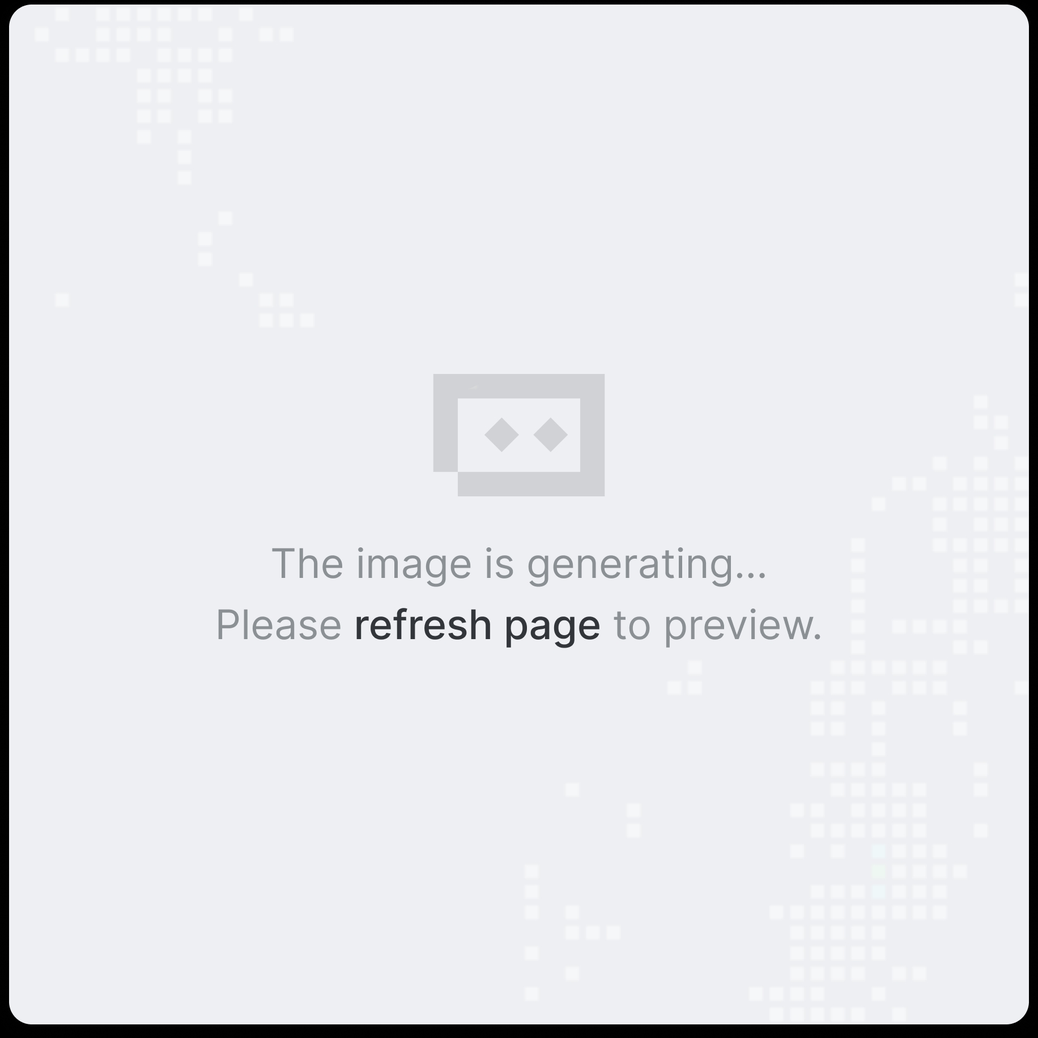
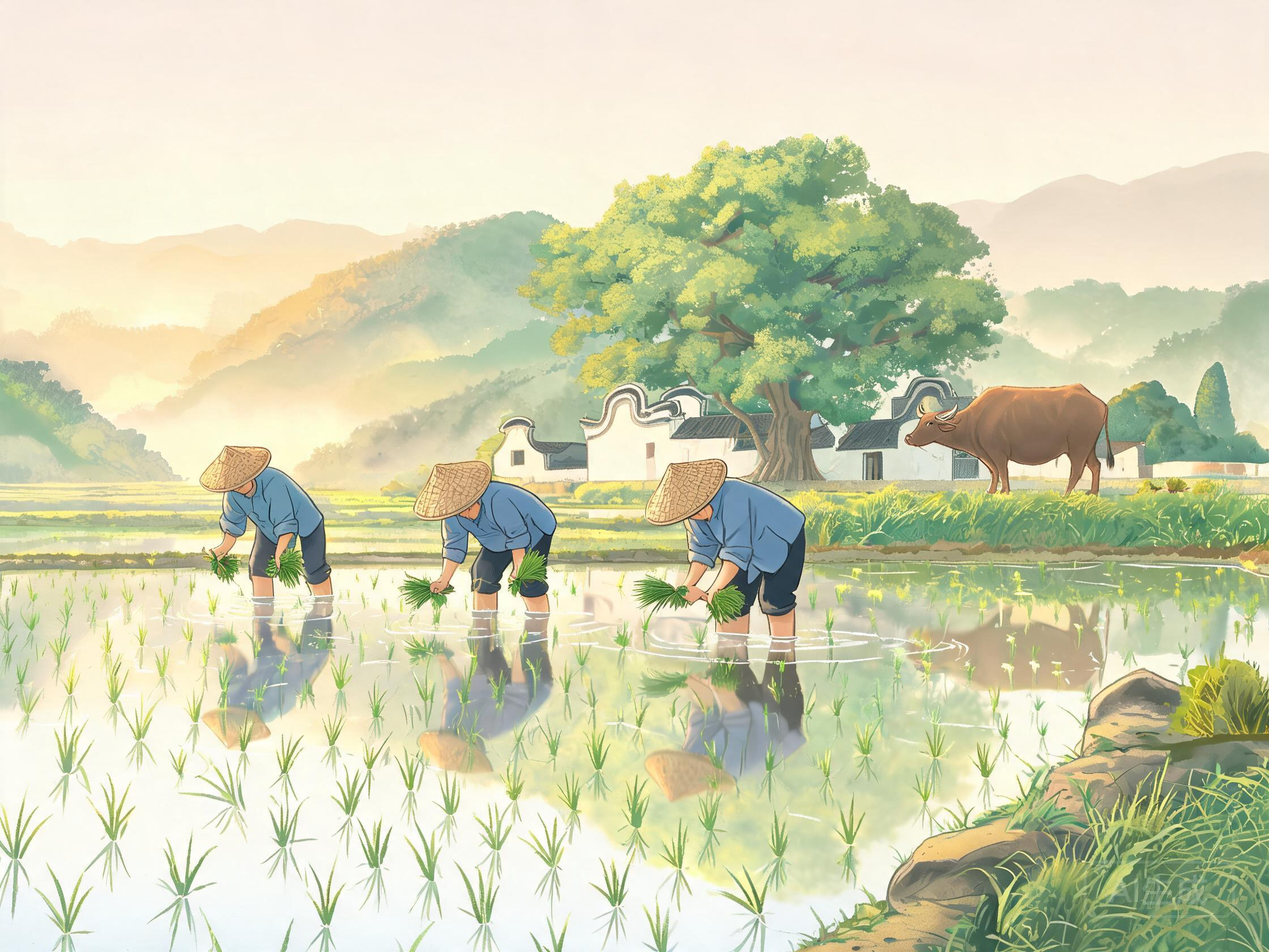
修复传统农作占位图（重新生成2240x1680插图）+文案二次去AI腔

diff --git a/gd-agri-science.html b/gd-agri-science.html
@@ -611,7 +611,7 @@
         <div class="sec-head reveal">
           <span class="kicker">01 / 岭南农珍</span>
           <h2>一张地图，看清广东"土特产"长在哪</h2>
-          <p class="lead">广东人讲"不时不食"：荔枝、菠萝、单丛茶、丝苗米，每样物产都有自己的地盘。点开地图上的九个圆点，看它们具体产自哪里，又靠什么技术走出了广东。</p>
+          <p class="lead">广东人讲"不时不食"：荔枝、菠萝、单丛茶、丝苗米，每样物产都有自己的地盘。点开地图上的九个圆点，看它们具体产自哪里，又靠什么本事卖到全国。</p>
         </div>
         <div class="map-grid reveal">
           <div class="map-panel">
@@ -724,7 +724,7 @@
           <div class="reveal">
             <h3 class="sub-h">装置二 · 天上的"飞把式"</h3>
             <p class="para">人工背药桶下田，一天顶多二三十亩，人还吸一肚子药雾。换无人机，一架一天能洒三四百亩；旋翼往下压风，药雾被吹进稻丛根部，连叶子背面都打得到。</p>
-            <p class="para">广州正是农业无人机的重镇——极飞科技总部在广州，大疆农业在珠三角扎了根。更彻底的是罗锡文院士团队在增城搞的水稻无人农场：旋耕、播种、收割，农机照着北斗路线自己走，一个人能管几百亩。</p>
+            <p class="para">广州还是农业无人机的大本营——极飞科技总部就在广州，大疆农业也在珠三角扎了根。更彻底的是罗锡文院士团队在增城搞的水稻无人农场：旋耕、播种、收割，农机照着北斗路线自己走，一个人能管几百亩。</p>
             <p class="para">点"开始作业"，可以拖滑块调速、开关航线。注意看：飞过的田垄会变颜色。</p>
           </div>
           <div class="drone-stage reveal">
@@ -830,7 +830,7 @@
               </div>
               <div class="tab-panel">
                 <h4>天敌昆虫：请"虫友"来帮忙</h4>
-                <p>赤眼蜂不到一毫米大，专把卵产进害虫的卵里；捕食螨见了红蜘蛛就开口。它们由工厂批量繁育，装在小卡片里往树上一挂，就能持续吃虫。</p>
+                <p>赤眼蜂不到一毫米大，专把卵产进害虫的卵里；捕食螨见了红蜘蛛就开口。它们在工厂里批量繁育，装成小卡片往树上一挂，益虫就在园子里安了家，天天帮着吃虫。</p>
                 <p class="principle">关键点：恢复食物链，让益虫自己把害虫数量压住。</p>
               </div>
               <div class="tab-panel">
@@ -920,7 +920,7 @@
             <div class="q-step">
               <div class="ico">04</div>
               <h4>贴码上市</h4>
-              <p>合格后赋追溯码，产地检测物流一查便知。</p>
+              <p>合格后贴上追溯码：产自哪个地块、检测结果、运去了哪儿，一扫全知道。</p>
             </div>
           </div>
           <div class="step-replay">
@@ -936,7 +936,7 @@
         <div class="sec-head reveal">
           <span class="kicker">06 / 数据看振兴</span>
           <h2>数字里的广东农业</h2>
-          <p class="lead">广东耕地不多，约占全国的 1.9%，却种出了全国数一数二的水果盘子，粮食产量还连年稳中有升。三张图看个大概。</p>
+          <p class="lead">广东耕地不多，约占全国的 1.9%，却种出了全国数一数二的水果盘子，粮食产量也一年比一年稳。三张图看个大概。</p>
         </div>
         <div class="chart-grid">
           <figure class="chart-card reveal">
@@ -962,7 +962,7 @@
         <div class="sec-head reveal" style="text-align:center;">
           <span class="kicker" style="justify-content:center;">07 / 科普闯关</span>
           <h2>八道题，测测你的"粤农段位"</h2>
-          <p class="lead" style="margin:0.6rem auto 0;">单选，答完给评级，连对有显示。答案都在前面的内容里。</p>
+          <p class="lead" style="margin:0.6rem auto 0;">单选，答完给评级，连对还会弹提示。答案都藏在前面的内容里。</p>
         </div>
         <div class="quiz-box reveal" id="quizBox">
           <div id="quizPlay">

diff --git a/index.html b/index.html
@@ -611,7 +611,7 @@
         <div class="sec-head reveal">
           <span class="kicker">01 / 岭南农珍</span>
           <h2>一张地图，看清广东"土特产"长在哪</h2>
-          <p class="lead">广东人讲"不时不食"：荔枝、菠萝、单丛茶、丝苗米，每样物产都有自己的地盘。点开地图上的九个圆点，看它们具体产自哪里，又靠什么技术走出了广东。</p>
+          <p class="lead">广东人讲"不时不食"：荔枝、菠萝、单丛茶、丝苗米，每样物产都有自己的地盘。点开地图上的九个圆点，看它们具体产自哪里，又靠什么本事卖到全国。</p>
         </div>
         <div class="map-grid reveal">
           <div class="map-panel">
@@ -724,7 +724,7 @@
           <div class="reveal">
             <h3 class="sub-h">装置二 · 天上的"飞把式"</h3>
             <p class="para">人工背药桶下田，一天顶多二三十亩，人还吸一肚子药雾。换无人机，一架一天能洒三四百亩；旋翼往下压风，药雾被吹进稻丛根部，连叶子背面都打得到。</p>
-            <p class="para">广州正是农业无人机的重镇——极飞科技总部在广州，大疆农业在珠三角扎了根。更彻底的是罗锡文院士团队在增城搞的水稻无人农场：旋耕、播种、收割，农机照着北斗路线自己走，一个人能管几百亩。</p>
+            <p class="para">广州还是农业无人机的大本营——极飞科技总部就在广州，大疆农业也在珠三角扎了根。更彻底的是罗锡文院士团队在增城搞的水稻无人农场：旋耕、播种、收割，农机照着北斗路线自己走，一个人能管几百亩。</p>
             <p class="para">点"开始作业"，可以拖滑块调速、开关航线。注意看：飞过的田垄会变颜色。</p>
           </div>
           <div class="drone-stage reveal">
@@ -830,7 +830,7 @@
               </div>
               <div class="tab-panel">
                 <h4>天敌昆虫：请"虫友"来帮忙</h4>
-                <p>赤眼蜂不到一毫米大，专把卵产进害虫的卵里；捕食螨见了红蜘蛛就开口。它们由工厂批量繁育，装在小卡片里往树上一挂，就能持续吃虫。</p>
+                <p>赤眼蜂不到一毫米大，专把卵产进害虫的卵里；捕食螨见了红蜘蛛就开口。它们在工厂里批量繁育，装成小卡片往树上一挂，益虫就在园子里安了家，天天帮着吃虫。</p>
                 <p class="principle">关键点：恢复食物链，让益虫自己把害虫数量压住。</p>
               </div>
               <div class="tab-panel">
@@ -920,7 +920,7 @@
             <div class="q-step">
               <div class="ico">04</div>
               <h4>贴码上市</h4>
-              <p>合格后赋追溯码，产地检测物流一查便知。</p>
+              <p>合格后贴上追溯码：产自哪个地块、检测结果、运去了哪儿，一扫全知道。</p>
             </div>
           </div>
           <div class="step-replay">
@@ -936,7 +936,7 @@
         <div class="sec-head reveal">
           <span class="kicker">06 / 数据看振兴</span>
           <h2>数字里的广东农业</h2>
-          <p class="lead">广东耕地不多，约占全国的 1.9%，却种出了全国数一数二的水果盘子，粮食产量还连年稳中有升。三张图看个大概。</p>
+          <p class="lead">广东耕地不多，约占全国的 1.9%，却种出了全国数一数二的水果盘子，粮食产量也一年比一年稳。三张图看个大概。</p>
         </div>
         <div class="chart-grid">
           <figure class="chart-card reveal">
@@ -962,7 +962,7 @@
         <div class="sec-head reveal" style="text-align:center;">
           <span class="kicker" style="justify-content:center;">07 / 科普闯关</span>
           <h2>八道题，测测你的"粤农段位"</h2>
-          <p class="lead" style="margin:0.6rem auto 0;">单选，答完给评级，连对有显示。答案都在前面的内容里。</p>
+          <p class="lead" style="margin:0.6rem auto 0;">单选，答完给评级，连对还会弹提示。答案都藏在前面的内容里。</p>
         </div>
         <div class="quiz-box reveal" id="quizBox">
           <div id="quizPlay">

diff --git a/assets/main.js b/assets/main.js
@@ -289,7 +289,7 @@
       },
       yingde: {
         tag: '红茶名片', name: '英德 · 红茶', img: null,
-        desc: '英红九号是英德红茶的当家品种，茶汤红亮、茶味浓。从一片鲜叶到一罐茶，温度、时间都有标准，老茶区靠标准化重新打开了市场。',
+        desc: '英红九号是英德红茶的当家品种，茶汤红亮、茶味浓。从一片鲜叶到一罐茶，温度、时间都有规矩，靠着这套标准，老茶区又慢慢火了回来。',
         tech: '良种繁育 · 标准化加工 · 品牌运营'
       },
       zhanjiang: {
@@ -304,7 +304,7 @@
       },
       deqing: {
         tag: '昔日贡品', name: '德庆 · 贡柑', img: null,
-        desc: '德庆贡柑清甜化渣，古时是贡品。柑橘最怕黄龙病，树染了病只能砍。当地靠无病毒苗、统防统治传毒木虱，给果园筑防线。',
+        desc: '德庆贡柑清甜化渣，古时是贡品。柑橘最怕黄龙病，树染了病只能砍。如今种上无病毒苗，再统防统治、专杀传毒的木虱，等于给果园筑了道防线。',
         tech: '无病毒苗 · 统防统治 · 水肥一体'
       }
     };
